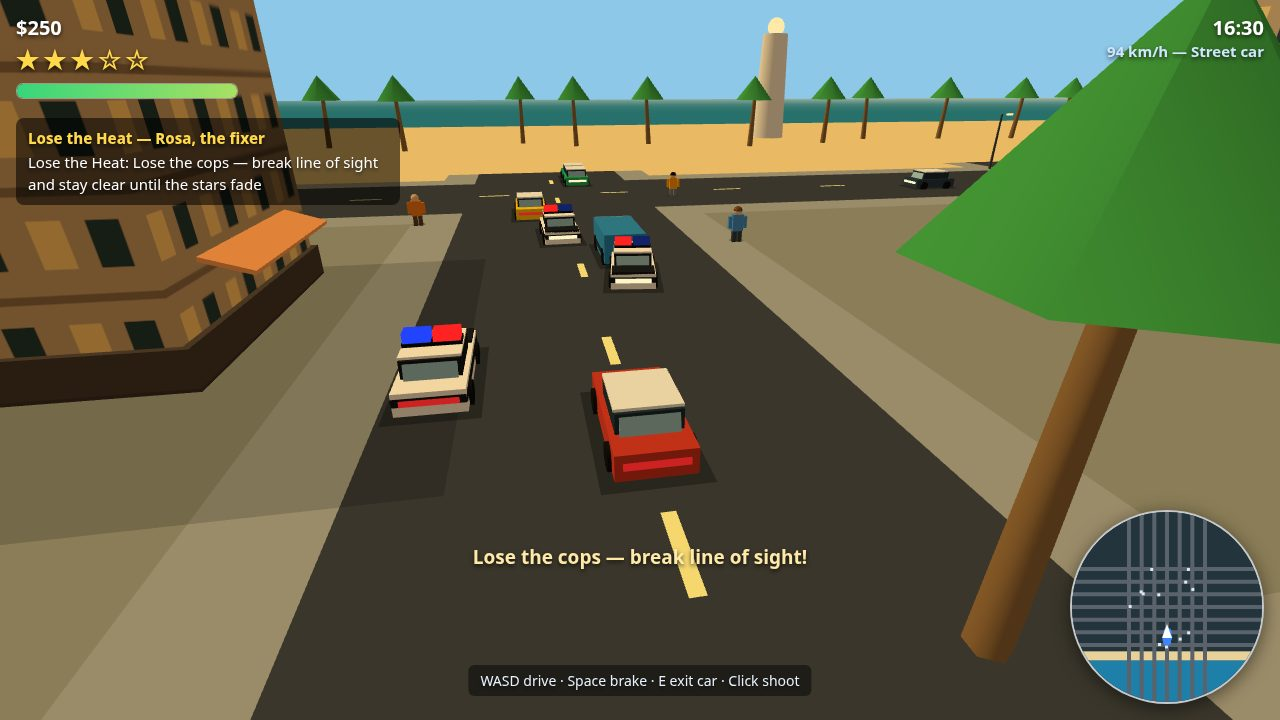
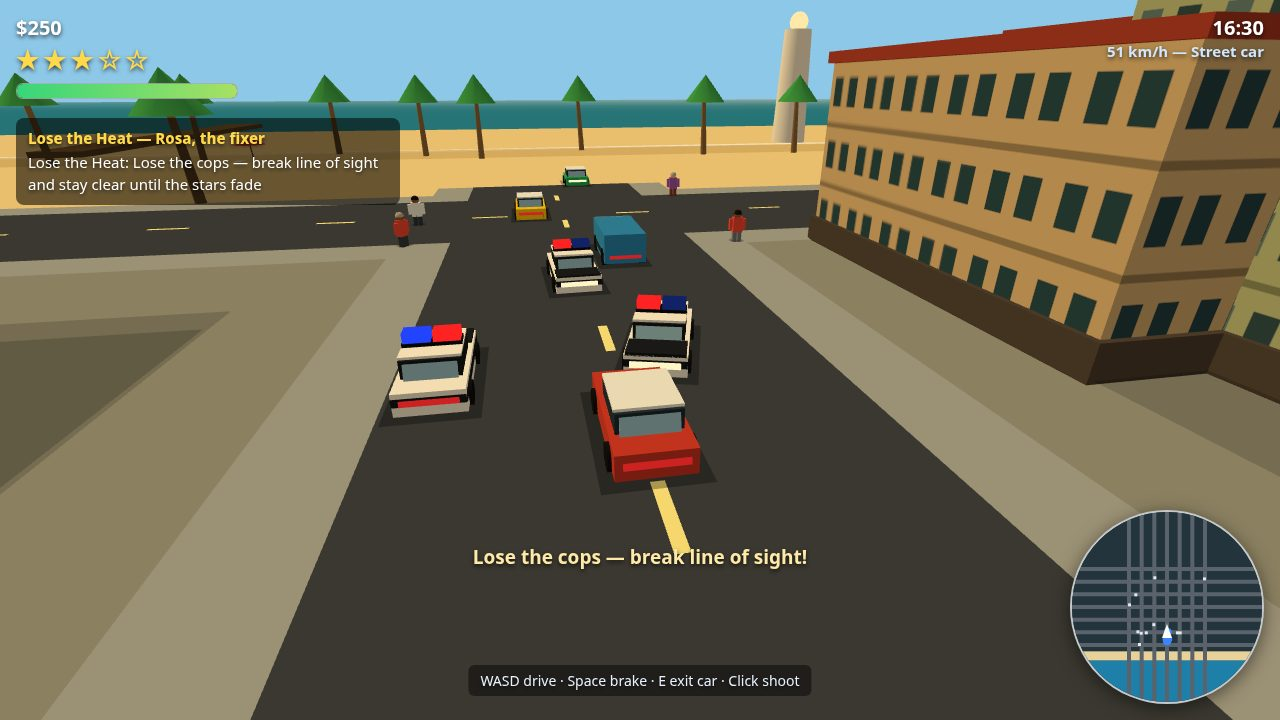
Palmera City v2 R3: foam shoreline + wet sand, beach umbrellas, clouds, hemisphere light, red player car on the cover; README final for v2

diff --git a/game/src/world.js b/game/src/world.js
@@ -115,6 +115,55 @@ export function createWorld(scene, rng) {
   sea.position.set(0, 0.02, CITY.seaZ + 130);
   group.add(sea);
 
+  // v2 shoreline: a band of darker wet sand where the water meets the
+  // beach, and a wavy foam line on top of it. v1's sand simply stopped at
+  // the sea plane — a hard colour edge across the whole cover shot.
+  const wet = new THREE.Mesh(
+    new THREE.PlaneGeometry(CITY.size * 2, 11),
+    new THREE.MeshLambertMaterial({ color: 0xc9ac72, transparent: true, opacity: 0.6 }),
+  );
+  wet.rotation.x = -Math.PI / 2;
+  wet.position.set(0, 0.06, CITY.seaZ - 24);
+  group.add(wet);
+  const foamGeo = new THREE.PlaneGeometry(CITY.size * 2, 2.6, 96, 1);
+  const foamPos = foamGeo.attributes.position;
+  for (let i = 0; i < foamPos.count; i += 1) {
+    foamPos.setY(i, foamPos.getY(i) + Math.sin(foamPos.getX(i) * 0.045) * 0.9);
+  }
+  foamGeo.computeVertexNormals();
+  const foam = new THREE.Mesh(
+    foamGeo,
+    new THREE.MeshBasicMaterial({ color: 0xffffff, transparent: true, opacity: 0.5, depthWrite: false }),
+  );
+  foam.rotation.x = -Math.PI / 2;
+  foam.position.set(0, 0.08, CITY.seaZ - 19);
+  group.add(foam);
+
+  // v2 beach life: umbrellas + towels on the sand (the cover shot looks
+  // straight down this beach). Kept clear of the pier and the lighthouse.
+  const UMBRELLAS = [0xe74c3c, 0xf39c12, 0x2a9d8f, 0xe67e22, 0xecf0f1, 0x4a90d9];
+  const umbPoleGeo = new THREE.CylinderGeometry(0.06, 0.08, 2.3, 6);
+  const umbPoleMat = new THREE.MeshLambertMaterial({ color: 0x8a6a42 });
+  const umbTopGeo = new THREE.ConeGeometry(1.7, 0.75, 8);
+  const towelGeo = new THREE.PlaneGeometry(1.9, 0.95);
+  for (let i = 0; i < 10; i += 1) {
+    const ux = rng.range(-320, 320);
+    if (Math.abs(ux - 60) < 10 || Math.abs(ux + 40) < 9) continue;
+    const uz = CITY.beachZ + rng.range(2, 15);
+    const pole = new THREE.Mesh(umbPoleGeo, umbPoleMat);
+    pole.position.set(ux, 1.15, uz);
+    pole.rotation.z = rng.range(-0.07, 0.07);
+    group.add(pole);
+    const top = new THREE.Mesh(umbTopGeo, new THREE.MeshLambertMaterial({ color: rng.pick(UMBRELLAS) }));
+    top.position.set(ux, 2.35, uz);
+    group.add(top);
+    const towel = new THREE.Mesh(towelGeo, new THREE.MeshLambertMaterial({ color: rng.pick(UMBRELLAS) }));
+    towel.rotation.x = -Math.PI / 2;
+    towel.rotation.z = rng.range(0, Math.PI);
+    towel.position.set(ux + rng.range(1.6, 2.6), 0.09, uz + rng.range(-0.5, 1.5));
+    group.add(towel);
+  }
+
   // Roads: dark strips + centre dashes, sidewalks as pale borders.
   const roadMat = new THREE.MeshLambertMaterial({ color: PALETTE.asphalt });
   const walkMat = new THREE.MeshLambertMaterial({ color: PALETTE.sidewalk });
@@ -351,11 +400,31 @@ export function createWorld(scene, rng) {
   pier.position.set(60, 0.4, CITY.seaZ + 10);
   group.add(pier);
 
-  // Sun, sky and haze — a low golden sun, warm bounce light.
+  // v2 clouds: a few flat, soft billboards high over the city, so the sky
+  // in the driving shots is not one flat colour. fog:false — at their
+  // distance the city haze would erase them entirely.
+  const cloudMat = new THREE.MeshBasicMaterial({
+    color: 0xffffff, transparent: true, opacity: 0.5, depthWrite: false,
+    side: THREE.DoubleSide, fog: false,
+  });
+  for (let i = 0; i < 8; i += 1) {
+    const cloud = new THREE.Mesh(
+      new THREE.PlaneGeometry(rng.range(60, 130), rng.range(13, 24)),
+      cloudMat,
+    );
+    cloud.rotation.x = -Math.PI / 2 + rng.range(-0.15, 0.15);
+    cloud.position.set(rng.range(-420, 420), rng.range(95, 135), rng.range(-420, 420));
+    group.add(cloud);
+  }
+
+  // Sun, sky and haze — a low golden sun, warm bounce light. v2 adds a
+  // hemisphere light (sky above, sand below) and trims the flat ambient, so
+  // shaded facades keep a cool/warm split instead of one flat tone.
   const sun = new THREE.DirectionalLight(PALETTE.sun, 2.7);
   sun.position.set(120, 180, 60);
   scene.add(sun);
-  scene.add(new THREE.AmbientLight(0xffe2b8, 1.0));
+  scene.add(new THREE.AmbientLight(0xffe2b8, 0.72));
+  scene.add(new THREE.HemisphereLight(0xbfd9e8, 0xe8d29a, 0.55));
   scene.background = new THREE.Color(PALETTE.sky);
   scene.fog = new THREE.Fog(PALETTE.fog, 180, 520);
 

diff --git a/game/src/shots.js b/game/src/shots.js
@@ -160,6 +160,11 @@ export function stageShot(name, ctx) {
   ctx.missions.step = 1; // evade — lose the cops
   state.heat = 65;
   const car = putPlayerInCar(ctx, 0, 110, 0);
+  // v2: the cover's player car is always Luz's red — ambient palette picks
+  // drift as worldgen rng consumption changes, and one build seated her in
+  // a cream car that vanished among the white cruisers. The body is the
+  // first mesh makeCarMesh adds, with its own material instance.
+  car.mesh.children[0].material.color.setHex(0xc0392b);
   car.speed = 26;
   player.camYaw = 0;
   // Higher and further back than v1, slightly offset: the flanking walls

diff --git a/README.md b/README.md
@@ -10,9 +10,9 @@ A 3D open-world crime game set in Palmera City, a fictional sun-soaked coastal c
 
 Explore the city on foot or by car, steal cars, outrun the police, and run missions for Luz Vega against the Palmera PD.
 
-- **Open world:** a procedural 7×7 city grid with streets, sidewalks, palms, a beach and the sea, plus a lighthouse on the horizon.
+- **Open world:** a procedural 7×7 city grid with streets, sidewalks, palms, a beach and the sea, plus a lighthouse on the horizon. Buildings wear tiled window facades sized to their real dimensions, with parapets, balconies and shop awnings; street lamps and planters line the intersections; the shoreline has wet sand, a foam line and beach umbrellas.
 - **On foot and driving:** third-person walking (WASD + mouse camera), enter/exit cars with E, drive with WASD and brake with Space.
-- **Traffic and pedestrians:** AI cars follow the roads, pedestrians walk the sidewalks.
+- **Traffic and pedestrians:** AI cars — sedans, hatchbacks and vans — follow the roads; pedestrians with swinging arms, hair and varied heights and clothes walk the sidewalks.
 - **Wanted level:** stealing a car raises your wanted stars (1–5); police cruisers chase and ram you. Break line of sight to cool down.
 - **Missions and story:** four chained missions with waypoints ("Hot Wheels", "Courier Run", "Lose the Heat", "The Last Delivery") — Marco at the docks, Rosa the fixer.
 - **Combat:** fists and pistol (mouse click), with hit feedback.
@@ -25,9 +25,9 @@ Open `game/index.html` in a desktop browser (or serve the `game/` folder with an
 
 ## Results (local)
 
-- Three measured iteration rounds against a local judge mirror (pairwise vs the kit starter, both directions): v3 wins 5–5 in R2 and R3, with all R3 fixes verified.
-- Kit check green (4 passed, 0 failed); `main.ts` deterministic (byte-identical dossier across runs); headless play-test with 0 errors.
-- Server grading is pending — the local mirror is a direction signal, not a server score.
+- This v2 is a polish pass over the submitted v1 (same game, same features): three measured iteration rounds, each judged head-to-head against v1 by an independent local judge mirror using the bounty judge's own instructions. v2 won **both directions in all three rounds** (margin 2 each time; pairwise score 0.70 vs 0.30), and beat the kit starter 5–5 in both directions as a sanity check.
+- Kit check green (4 passed, 0 failed); `main.ts` deterministic (byte-identical dossier across runs, sha256 ea2a9368…); headless play-test with 0 errors; frame rate at parity with v1 in software rendering.
+- Honest note: the local mirror is a direction signal, not the server judge. v1 scored 98.4522% on the server, so any gain from a visual polish pass is expected to be small.
 
 ## Structure
 
